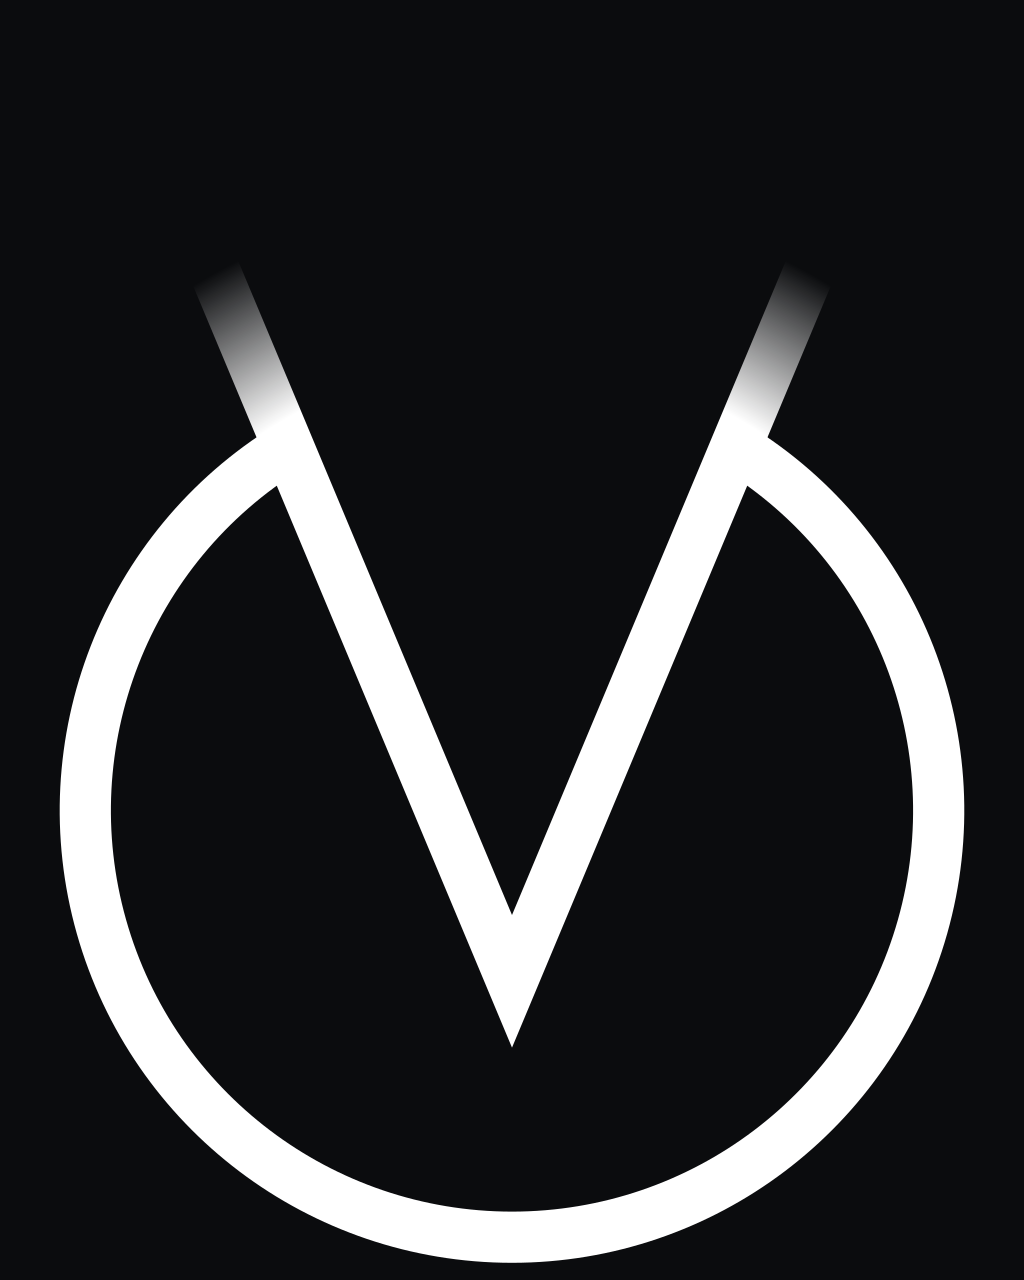
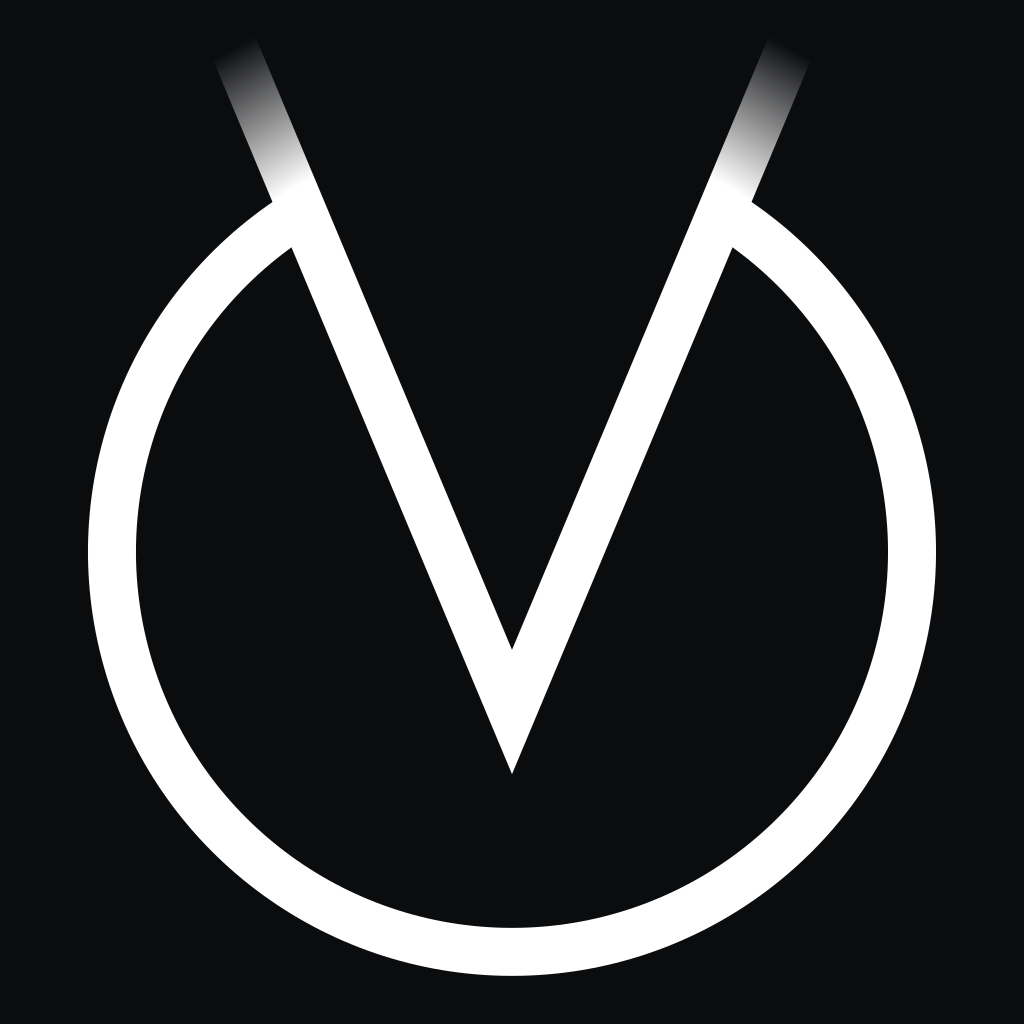
Tag sui prodotti + filtro per tag in home e in /prodotti; Maestrale gratis
Claude-Session: https://claude.ai/code/session_01GyZ4WcXB7qG2KLqTf76sGD

Changed region(s): [[0.0312, 0.0312, 0.9688, 1.0]]

diff --git a/src/styles/global.css b/src/styles/global.css
@@ -35,7 +35,7 @@ hr { border: 0; border-top: 1px solid var(--line); margin: 2rem 0; }
 .site-head { border-bottom: 1px solid var(--line); position: sticky; top: 0; background: color-mix(in srgb, var(--bg) 88%, transparent); backdrop-filter: blur(8px); z-index: 10; }
 .site-head .wrap { display: flex; align-items: center; justify-content: space-between; height: 56px; gap: 1rem; }
 .brand { font-family: var(--mono); font-weight: 700; letter-spacing: .04em; text-transform: uppercase; display: inline-flex; align-items: center; gap: .6rem; }
-.brand img { width: 26px; height: 32px; }
+.brand img { width: 28px; height: 30px; }
 .brand span { color: var(--fg-3); font-weight: 400; }
 nav.main { display: flex; gap: 1.25rem; font-size: .9rem; color: var(--fg-2); }
 nav.main a[aria-current="page"] { color: var(--fg); }

diff --git a/src/content.config.ts b/src/content.config.ts
@@ -16,6 +16,7 @@ const prodotti = defineCollection({
     piattaforme: z.array(z.string()).default([]),
     immagine: z.string().optional(),        // es. /img/maestrale.jpg
     logo: z.string().optional(),            // es. /logo/prodotti/ventonet.png
+    tags: z.array(z.string()).default([]),  // es. [free, opensource, esp32]
     ordine: z.number().default(99),
   }),
 });

diff --git a/brand/make_logo.py b/brand/make_logo.py
@@ -2,9 +2,9 @@ import os
 ARC = "M-26.2,-42.6 A50,50 0 1 0 26.2,-42.6"
 V = "M-43.2,-83.2 L0,20 L43.2,-83.2"
 def svg(color, bg=None, flat=False, size=None):
-    vb = "-60 -95 120 150"
-    w = f' width="{size}" height="{int(size*150/120)}"' if size else ''
-    bgr = f'<rect x="-60" y="-95" width="120" height="150" fill="{bg}"/>' if bg else ''
+    vb = "-55 -64 110 118" if not bg else "-64 -69 128 128"
+    w = f' width="{size}" height="{int(size*118/110)}"' if size else ''
+    bgr = f'<rect x="-64" y="-69" width="128" height="128" fill="{bg}"/>' if bg else ''
     if flat:
         stroke = color
         defs = ''

diff --git a/README.md b/README.md
@@ -20,6 +20,7 @@ buy_url: https://...    # link checkout Lemon Squeezy (quando c'è)
 piattaforme: [Windows]
 immagine: /img/maestrale.jpg
 logo: /logo/prodotti/maestrale.jpg   # logo del prodotto (quadrato, png/svg)
+tags: [free, opensource, software]   # tag liberi, minuscoli; alimentano il filtro
 ordine: 1               # ordine nella griglia
 ---
 Testo libero in markdown: cos'è, a chi serve, caratteristiche, requisiti.

diff --git a/src/content/prodotti/maestrale.md b/src/content/prodotti/maestrale.md
@@ -4,10 +4,11 @@ tagline: Show control touchscreen. Cue, widget, router Art-Net/sACN, tutto su un
 tipo: software
 logo: /logo/prodotti/maestrale.jpg
 stato: beta
-prezzo: da definire
+prezzo: gratis
 piattaforme: [Windows]
 repo_url: https://github.com/vento17/Maestrale
 docs_url: /docs/maestrale/introduzione
+tags: [free, opensource, software]
 ordine: 1
 ---
 

diff --git a/src/content/prodotti/scheda-ventonet.md b/src/content/prodotti/scheda-ventonet.md
@@ -3,6 +3,7 @@ nome: Scheda VentoNet / VentoLed
 tagline: PCB custom su WT32-ETH01, con firmware precaricato. Disponibile dopo certificazione CE / RoHS.
 tipo: hardware
 stato: in-arrivo
+tags: [esp32, hardware]
 ordine: 10
 ---
 

diff --git a/src/content/prodotti/ventouch.md b/src/content/prodotti/ventouch.md
@@ -4,6 +4,7 @@ tagline: Visual mixer in TouchDesigner. Pool di clip, post FX, color correction,
 tipo: software
 stato: in-arrivo
 piattaforme: [TouchDesigner]
+tags: [touchdesigner, software]
 ordine: 4
 ---
 

diff --git a/src/content/prodotti/ventolight.md b/src/content/prodotti/ventolight.md
@@ -4,6 +4,7 @@ tagline: Descrizione in arrivo.
 tipo: software
 logo: /logo/prodotti/ventolight.jpg
 stato: in-arrivo
+tags: [esp32, firmware]
 ordine: 5
 ---
 

diff --git a/src/content/prodotti/ventoled.md b/src/content/prodotti/ventoled.md
@@ -5,6 +5,7 @@ tipo: firmware
 logo: /logo/prodotti/ventoled.jpg
 stato: in-arrivo
 piattaforme: [ESP32 WT32-ETH01]
+tags: [esp32, firmware]
 ordine: 3
 ---
 

diff --git a/src/content/prodotti/ventonet.md b/src/content/prodotti/ventonet.md
@@ -5,6 +5,7 @@ tipo: firmware
 logo: /logo/prodotti/ventonet.jpg
 stato: in-arrivo
 piattaforme: [ESP32 WT32-ETH01]
+tags: [esp32, firmware]
 ordine: 2
 ---
 

diff --git a/src/content/prodotti/slamtecpy.md b/src/content/prodotti/slamtecpy.md
@@ -5,6 +5,7 @@ tipo: software
 logo: /logo/prodotti/slamtecpy.jpg
 stato: in-arrivo
 piattaforme: [Python]
+tags: [software, python]
 ordine: 6
 ---
 
